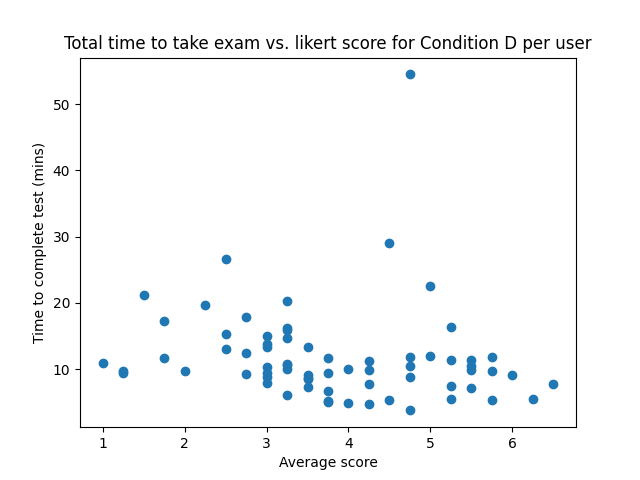
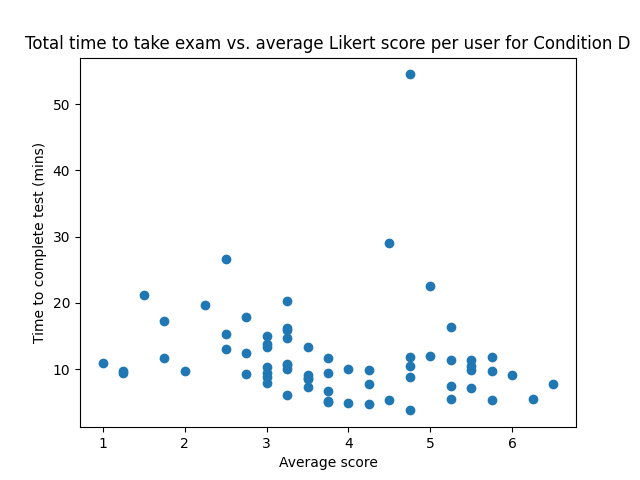
Added: Likert outlier detection script. Removed: non-native English user from English results

Changed region(s): [[0.0312, 0.0625, 1.0, 0.125], [0.5625, 0.75, 0.5938, 0.7812]]

diff --git a/outlier_detection_likert.py b/outlier_detection_likert.py
@@ -1,0 +1,322 @@
+import os
+import matplotlib.pyplot as plt
+from itertools import islice
+from dotenv import load_dotenv
+
+print("This script will detect users who answer significantly differently in terms of likert score vs. "
+      "the average on the condition across multiple questions.")
+
+# Assigning env variables based on ENV variables
+load_dotenv(dotenv_path='.env')
+
+# Load all .env variables
+results_location = str(os.environ.get('RESULTS_LOCATION'))
+results_location_italian = str(os.environ.get('RESULTS_LOCATION_ITALIAN'))
+
+all_user_results = {}
+user_results = {}
+user_md5_buffer = ''
+judgements = 0
+likert_score_cond_a = 0
+likert_score_cond_b = 0
+likert_score_cond_c = 0
+likert_score_cond_d = 0
+likert_score_cond_e = 0
+likert_score_cond_f = 0
+likert_score_cond_g = 0
+likert_score_cond_h = 0
+likert_avg_a = 0
+likert_avg_b = 0
+likert_avg_c = 0
+likert_avg_d = 0
+likert_avg_e = 0
+likert_avg_f = 0
+likert_avg_g = 0
+likert_avg_h = 0
+counter_cond_a = 0
+counter_cond_b = 0
+counter_cond_c = 0
+counter_cond_d = 0
+counter_cond_e = 0
+counter_cond_f = 0
+counter_cond_g = 0
+counter_cond_h = 0
+user_likert_score_cond_a = 0
+user_likert_score_cond_b = 0
+user_likert_score_cond_c = 0
+user_likert_score_cond_d = 0
+user_likert_score_cond_e = 0
+user_likert_score_cond_f = 0
+user_likert_score_cond_g = 0
+user_likert_score_cond_h = 0
+user_likert_avg_a = 0
+user_likert_avg_b = 0
+user_likert_avg_c = 0
+user_likert_avg_d = 0
+user_likert_avg_e = 0
+user_likert_avg_f = 0
+user_likert_avg_g = 0
+user_likert_avg_h = 0
+user_counter_cond_a = 0
+user_counter_cond_b = 0
+user_counter_cond_c = 0
+user_counter_cond_d = 0
+user_counter_cond_e = 0
+user_counter_cond_f = 0
+user_counter_cond_g = 0
+user_counter_cond_h = 0
+value_line = ''
+
+# First, get avg. likert for all conditions. Then, calculate each user's avg for each condition. Then display.
+# Data structure like:
+# user_results = {"md5 hash": {"cond_a": avg likert, "cond_b": avg likert...}}
+# all_user_results = {"cond_a" : avg likert, "cond_b": avg_likert...}
+# Display like:
+# User: md5 hash
+#   Condition A:
+#     User's Score: avg_likert_for_user_cond_a
+#     Everyone's Score: avg_likert_for_all_cond_a
+#   Condition B:
+#     ...
+
+
+with open(results_location) as f:
+    for line in f:
+        if 'https://ryanchausse.com/aubrie_masters/images/conversation_pics/' in line:
+            timestamp_and_md5 = line[:43:1]
+            user_md5 = timestamp_and_md5.split(',')[1]
+            if not user_md5_buffer:
+                user_md5_buffer = user_md5
+            if user_md5 != user_md5_buffer:
+                user_likert_score_cond_a = 0
+                user_likert_score_cond_b = 0
+                user_likert_score_cond_c = 0
+                user_likert_score_cond_d = 0
+                user_likert_score_cond_e = 0
+                user_likert_score_cond_f = 0
+                user_likert_score_cond_g = 0
+                user_likert_score_cond_h = 0
+                user_likert_avg_a = 0
+                user_likert_avg_b = 0
+                user_likert_avg_c = 0
+                user_likert_avg_d = 0
+                user_likert_avg_e = 0
+                user_likert_avg_f = 0
+                user_likert_avg_g = 0
+                user_likert_avg_h = 0
+                user_counter_cond_a = 0
+                user_counter_cond_b = 0
+                user_counter_cond_c = 0
+                user_counter_cond_d = 0
+                user_counter_cond_e = 0
+                user_counter_cond_f = 0
+                user_counter_cond_g = 0
+                user_counter_cond_h = 0
+            value_line = ''.join(islice(f, 1))
+            likert_score_location = int(value_line.find(',NULL,NULL,'))
+
+            # Condition A
+            if 'cond=a' in line and ',practice,' not in line:
+                if int(likert_score_location) != -1:
+                    likert_point_location = 11 + likert_score_location
+                else:
+                    likert_score_location = int(value_line.find(',NULL,'))
+                    likert_point_location = 6 + likert_score_location
+                # Collect scores for likert avg across users
+                likert_score_cond_a += int(value_line[likert_point_location])
+                counter_cond_a += 1
+                # Find user's likert score, add to user's cond A likert judgements
+                user_likert_score_cond_a += int(value_line[likert_point_location])
+                user_counter_cond_a += 1
+                if user_counter_cond_a == 4:
+                    user_likert_avg_a = user_likert_score_cond_a / user_counter_cond_a
+                    if user_md5_buffer not in user_results:
+                        user_results[user_md5_buffer] = {}
+                        user_results[user_md5_buffer]['cond_a'] = user_likert_avg_a
+                    else:
+                        user_results[user_md5_buffer]['cond_a'] = user_likert_avg_a
+
+            # Condition B
+            if 'cond=b' in line and ',practice,' not in line:
+                if int(likert_score_location) != -1:
+                    likert_point_location = 11 + likert_score_location
+                else:
+                    likert_score_location = int(value_line.find(',NULL,'))
+                    likert_point_location = 6 + likert_score_location
+                # Collect scores for likert avg across users
+                likert_score_cond_b += int(value_line[likert_point_location])
+                counter_cond_b += 1
+                # Find user's likert score, add to user's cond B likert judgements
+                user_likert_score_cond_b += int(value_line[likert_point_location])
+                user_counter_cond_b += 1
+                if user_counter_cond_b == 4:
+                    user_likert_avg_b = user_likert_score_cond_b / user_counter_cond_b
+                    if user_md5_buffer not in user_results:
+                        user_results[user_md5_buffer] = {}
+                        user_results[user_md5_buffer]['cond_b'] = user_likert_avg_b
+                    else:
+                        user_results[user_md5_buffer]['cond_b'] = user_likert_avg_b
+
+            # Condition C
+            if 'cond=c' in line and ',practice,' not in line:
+                if int(likert_score_location) != -1:
+                    likert_point_location = 11 + likert_score_location
+                else:
+                    likert_score_location = int(value_line.find(',NULL,'))
+                    likert_point_location = 6 + likert_score_location
+                # Collect scores for likert avg across users
+                likert_score_cond_c += int(value_line[likert_point_location])
+                counter_cond_c += 1
+                # Find user's likert score, add to user's cond C likert judgements
+                user_likert_score_cond_c += int(value_line[likert_point_location])
+                user_counter_cond_c += 1
+                if user_counter_cond_c == 4:
+                    user_likert_avg_c = user_likert_score_cond_c / user_counter_cond_c
+                    if user_md5_buffer not in user_results:
+                        user_results[user_md5_buffer] = {}
+                        user_results[user_md5_buffer]['cond_c'] = user_likert_avg_c
+                    else:
+                        user_results[user_md5_buffer]['cond_c'] = user_likert_avg_c
+
+            # Condition D
+            if 'cond=d' in line and ',practice,' not in line:
+                if int(likert_score_location) != -1:
+                    likert_point_location = 11 + likert_score_location
+                else:
+                    likert_score_location = int(value_line.find(',NULL,'))
+                    likert_point_location = 6 + likert_score_location
+                # Collect scores for likert avg across users
+                likert_score_cond_d += int(value_line[likert_point_location])
+                counter_cond_d += 1
+                # Find user's likert score, add to user's cond D likert judgements
+                user_likert_score_cond_d += int(value_line[likert_point_location])
+                user_counter_cond_d += 1
+                if user_counter_cond_d == 4:
+                    user_likert_avg_d = user_likert_score_cond_d / user_counter_cond_d
+                    if user_md5_buffer not in user_results:
+                        user_results[user_md5_buffer] = {}
+                        user_results[user_md5_buffer]['cond_d'] = user_likert_avg_d
+                    else:
+                        user_results[user_md5_buffer]['cond_d'] = user_likert_avg_d
+
+            # Condition E
+            if 'cond=e' in line and ',practice,' not in line:
+                if int(likert_score_location) != -1:
+                    likert_point_location = 11 + likert_score_location
+                else:
+                    likert_score_location = int(value_line.find(',NULL,'))
+                    likert_point_location = 6 + likert_score_location
+                # Collect scores for likert avg across users
+                likert_score_cond_e += int(value_line[likert_point_location])
+                counter_cond_e += 1
+                # Find user's likert score, add to user's cond E likert judgements
+                user_likert_score_cond_e += int(value_line[likert_point_location])
+                user_counter_cond_e += 1
+                if user_counter_cond_e == 4:
+                    user_likert_avg_e = user_likert_score_cond_e / user_counter_cond_e
+                    if user_md5_buffer not in user_results:
+                        user_results[user_md5_buffer] = {}
+                        user_results[user_md5_buffer]['cond_e'] = user_likert_avg_e
+                    else:
+                        user_results[user_md5_buffer]['cond_e'] = user_likert_avg_e
+
+            # Condition F
+            if 'cond=f' in line and ',practice,' not in line:
+                if int(likert_score_location) != -1:
+                    likert_point_location = 11 + likert_score_location
+                else:
+                    likert_score_location = int(value_line.find(',NULL,'))
+                    likert_point_location = 6 + likert_score_location
+                # Collect scores for likert avg across users
+                likert_score_cond_f += int(value_line[likert_point_location])
+                counter_cond_f += 1
+                # Find user's likert score, add to user's cond F likert judgements
+                user_likert_score_cond_f += int(value_line[likert_point_location])
+                user_counter_cond_f += 1
+                if user_counter_cond_f == 4:
+                    user_likert_avg_f = user_likert_score_cond_f / user_counter_cond_f
+                    if user_md5_buffer not in user_results:
+                        user_results[user_md5_buffer] = {}
+                        user_results[user_md5_buffer]['cond_f'] = user_likert_avg_f
+                    else:
+                        user_results[user_md5_buffer]['cond_f'] = user_likert_avg_f
+
+            # Condition G
+            if 'cond=g' in line and ',practice,' not in line:
+                if int(likert_score_location) != -1:
+                    likert_point_location = 11 + likert_score_location
+                else:
+                    likert_score_location = int(value_line.find(',NULL,'))
+                    likert_point_location = 6 + likert_score_location
+                # Collect scores for likert avg across users
+                likert_score_cond_g += int(value_line[likert_point_location])
+                counter_cond_g += 1
+                # Find user's likert score, add to user's cond G likert judgements
+                user_likert_score_cond_g += int(value_line[likert_point_location])
+                user_counter_cond_g += 1
+                if user_counter_cond_g == 4:
+                    user_likert_avg_g = user_likert_score_cond_g / user_counter_cond_g
+                    if user_md5_buffer not in user_results:
+                        user_results[user_md5_buffer] = {}
+                        user_results[user_md5_buffer]['cond_g'] = user_likert_avg_g
+                    else:
+                        user_results[user_md5_buffer]['cond_g'] = user_likert_avg_g
+
+            # Condition H
+            if 'cond=h' in line and ',practice,' not in line:
+                if int(likert_score_location) != -1:
+                    likert_point_location = 11 + likert_score_location
+                else:
+                    likert_score_location = int(value_line.find(',NULL,'))
+                    likert_point_location = 6 + likert_score_location
+                # Collect scores for likert avg across users
+                likert_score_cond_h += int(value_line[likert_point_location])
+                counter_cond_h += 1
+                # Find user's likert score, add to user's cond H likert judgements
+                user_likert_score_cond_h += int(value_line[likert_point_location])
+                user_counter_cond_h += 1
+                if user_counter_cond_h == 4:
+                    user_likert_avg_h = user_likert_score_cond_h / user_counter_cond_h
+                    if user_md5_buffer not in user_results:
+                        user_results[user_md5_buffer] = {}
+                        user_results[user_md5_buffer]['cond_h'] = user_likert_avg_h
+                    else:
+                        user_results[user_md5_buffer]['cond_h'] = user_likert_avg_h
+
+            user_md5_buffer = user_md5
+f.close()
+
+all_user_results['cond_a'] = round(likert_score_cond_a / counter_cond_a, 2)
+all_user_results['cond_b'] = round(likert_score_cond_b / counter_cond_b, 2)
+all_user_results['cond_c'] = round(likert_score_cond_c / counter_cond_c, 2)
+all_user_results['cond_d'] = round(likert_score_cond_d / counter_cond_d, 2)
+all_user_results['cond_e'] = round(likert_score_cond_e / counter_cond_e, 2)
+all_user_results['cond_f'] = round(likert_score_cond_f / counter_cond_f, 2)
+all_user_results['cond_g'] = round(likert_score_cond_g / counter_cond_g, 2)
+all_user_results['cond_h'] = round(likert_score_cond_h / counter_cond_h, 2)
+
+
+print('Average Likert scores per condition for all users: ' + str(all_user_results))
+print('Average Likert scores per condition for individual users: ' + str(user_results))
+
+
+def significant_difference(user_of_interest, condition):
+    condition_full = 'cond_' + condition.lower()
+    if abs(user_results[user_of_interest][condition_full] - all_user_results[condition_full]) > 2.5:
+        print()
+        # print('OMG THE USER\'S ANSWERS DIFFER SIGNIFICANTLY FROM THE AVERAGE USER RESPONSE FOR CONDITION ' + condition + ' AHHHHHHHH!')
+        print('User\'s response differs signficantly from the average user response for condition ' + condition)
+        print('User MD5 hash: ' + user)
+
+
+for user in user_results.keys():
+    # print('User result: ' + str(user_results[user]['cond_a']))
+    # print('Everybody result: ' + str(all_user_results['cond_a']))
+    significant_difference(user_of_interest=user, condition='A')
+    significant_difference(user_of_interest=user, condition='B')
+    significant_difference(user_of_interest=user, condition='C')
+    significant_difference(user_of_interest=user, condition='D')
+    significant_difference(user_of_interest=user, condition='E')
+    significant_difference(user_of_interest=user, condition='F')
+    significant_difference(user_of_interest=user, condition='G')
+    significant_difference(user_of_interest=user, condition='H')

diff --git a/cond_d_vs_time_taken.py b/cond_d_vs_time_taken.py
@@ -68,6 +68,6 @@ fig, ax = plt.subplots()
 ax.ticklabel_format(style='plain')
 ax.set_ylabel('Time to complete test (mins)')
 ax.set_xlabel('Average score')
-ax.set_title('Total time to take exam vs. likert score for Condition D per user')
+ax.set_title('Total time to take exam vs. average Likert score per user for Condition D')
 plt.scatter(likert_scores, total_times)
 plt.savefig('./results/likert_vs_time_taken_cond_d.png')
